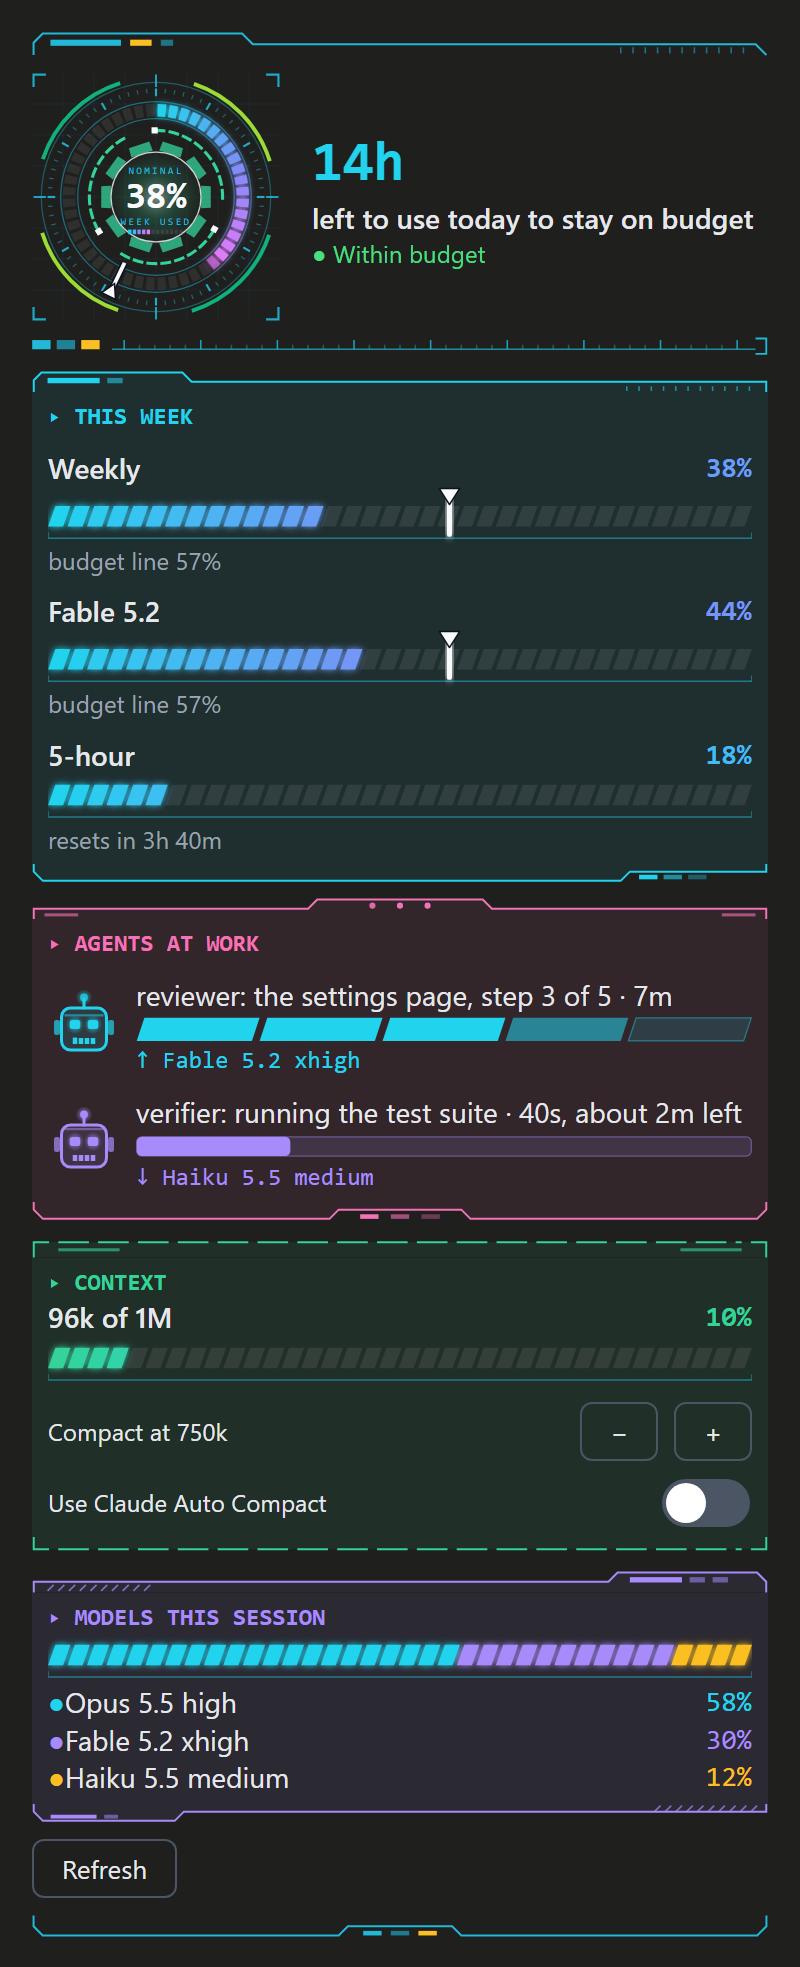
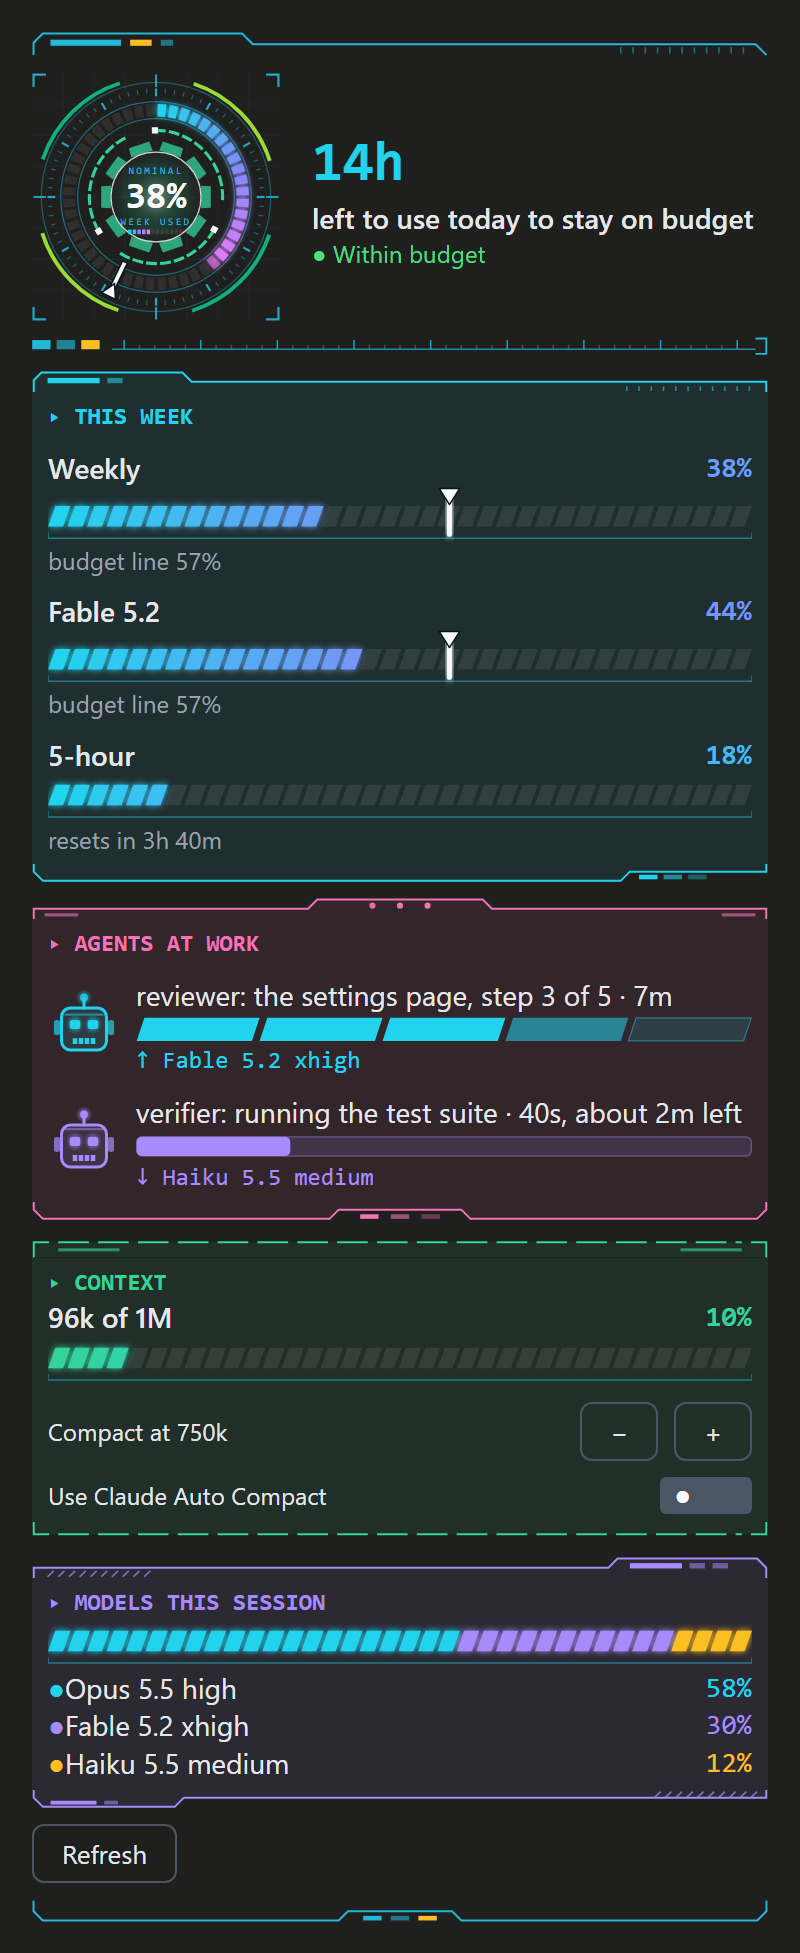
The auto-compact switch as a pill; context against the compact point; pacing 0.9.45
Live in 0.9.44 the switch drew wrong: the desktop draws a Button's label
over its children, so the label ran past the pane, and the Svg under
the Button stretched the row. The switch is now a Button with no label
holding a text track, blue with its knob right when on, grey with it
left when off.

The Context section's figure reads against the point the session
compacts at where a window was set, so "167k of 400k" sits under
"Compact at 400k" (pacing sets the window a buffer above the figure).

diff --git a/pacing/hooks/readings.test.ts b/pacing/hooks/readings.test.ts
@@ -1188,6 +1188,13 @@ const PANE = {
   props: { title: 'Pacing', isFocused: false, bodyColumns: 60, placement: 'dock', scroll: { offset: 0, bodyRows: 30 }, view: {} },
 } as const
 
+test('the context figure: against the point it compacts at where a window was set, the window else', () => {
+  expect(paneModel({ bd: BREAKDOWN }).context).toEqual({ used: '183k', of: '1M', pct: 18 })
+  const set = { ...BREAKDOWN, autocompactSource: 'settings', rawMaxTokens: 433000, maxTokens: 433000, autoCompactThreshold: 400000, totalTokens: 167000, percentage: 39 }
+  expect(paneModel({ bd: set }).context).toEqual({ used: '167k', of: '400k', pct: 42 })
+  expect(paneModel({ bd: { ...set, isAutoCompactEnabled: false } }).context).toEqual({ used: '167k', of: '433k', pct: 39 })
+})
+
 test('the pane: /pacing-pane opens it; it shows the budget, what to do and the context, with Refresh', async ($, on) => {
   engine(on)
   big(on)
@@ -1219,7 +1226,7 @@ test('the pane: /pacing-pane opens it; it shows the budget, what to do and the c
   for (const s of ['▸ CONTEXT', '183k of 1M', '18%']) expect(texts).toContain(s)
   // drawn, on a surface with Svg: the pane's two edges, the week's dial, the ruler under it, and for the week, the models and the context an edge above, one below and their bars, and the auto-compact switch
   const svgs = await ui.findAll({ type: 'Svg' })
-  expect(svgs.length).toBe(15)
+  expect(svgs.length).toBe(14)
   for (const s of svgs) { expect(s.props.source.startsWith('<svg xmlns="http://www.w3.org/2000/svg"')).toBe(true); expect(s.props.alt.length).toBeGreaterThan(0) }
   await ui.press({ key: 'pacing-pane-refresh' })
   await clock.advance(1)
@@ -1271,7 +1278,7 @@ test('a pane the engine does not place: /pacing-pane says why', async ($, on) =>
   expect((await $.command.run({ command: 'pacing-pane', args: '' } as any)).text).toBe('Pacing pane: not shown (no surface attached).')
   // the pane before any reading or turn
   const ui = await $.ui.mount(PANE)
-  expect((await ui.findAll({ type: 'Text' })).map((t: any) => t.text)).toEqual(['No reading yet in this session: /pacing usage takes one.', '▸ CONTEXT', 'Not measured yet; it shows after the next turn.', 'Compact at 750k', 'Use Claude Auto Compact', '      '])
+  expect((await ui.findAll({ type: 'Text' })).map((t: any) => t.text)).toEqual(['No reading yet in this session: /pacing usage takes one.', '▸ CONTEXT', 'Not measured yet; it shows after the next turn.', 'Compact at 750k', 'Use Claude Auto Compact', ' ●    '])
   await ui.unmount()
 })
 
@@ -4712,7 +4719,7 @@ test('Compact in the pane, as drawn: in the Context section with or without a br
   expect(paneModel({ bd }).compact).toBe('offer')
   // the measure where there is one (after a compaction it is the smaller)
   expect(paneModel({ bd, tokens: 40000 }).compact).toBe(null)
-  const keys = (m: any, surface: string) => nodes(paneView(TABLE, m, { surface })).filter(n => n.type === 'Button').map(n => n.props.key + ': ' + n.props.label)
+  const keys = (m: any, surface: string) => nodes(paneView(TABLE, m, { surface })).filter(n => n.type === 'Button').map(n => n.props.key + ': ' + (n.props.label ?? [n.props.children].flat().map((c: any) => (c && c.props ? c.props.children : c)).join('')))
   expect(keys(paneModel({ bd }), 'desktop')).toEqual(['pacing-pane-compact: Compact', 'pacing-pane-refresh: Refresh'])
   expect(keys(paneModel({ tokens: 300000 }), 'desktop')).toEqual(['pacing-pane-compact: Compact', 'pacing-pane-refresh: Refresh'])
   expect(keys(paneModel({ bd, compacting: true }), 'desktop')).toEqual(['pacing-pane-compact: Compacting…', 'pacing-pane-refresh: Refresh'])
@@ -5071,19 +5078,19 @@ test('the pane\'s auto-compact rows: the switch for Claude Code\'s own first, th
   // off the 50k grid: the next step on it
   expect(paneModel({ autoCompact: 120000 }).autoCompact).toEqual({ text: 'Compact at 120k', own: false, less: 100000, more: 150000 })
   const bd = { totalTokens: 100000, maxTokens: 1000000, percentage: 10, categories: [] }
-  const keys = (m: any, surface: string) => nodes(paneView(TABLE, m, { surface })).filter(n => n.type === 'Button').map(n => n.props.key + ': ' + n.props.label)
+  const keys = (m: any, surface: string) => nodes(paneView(TABLE, m, { surface })).filter(n => n.type === 'Button').map(n => n.props.key + ': ' + (n.props.label ?? [n.props.children].flat().map((c: any) => (c && c.props ? c.props.children : c)).join('')))
   // − and + first, the switch at the section's bottom (its row: the words left, the switch at the right end)
-  expect(keys(paneModel({ bd, autoCompact: 750000 }), 'desktop')).toEqual(['pacing-pane-autocompact-less: −', 'pacing-pane-autocompact-more: +', 'pacing-pane-autocompact-auto: Use Claude Auto Compact: off', 'pacing-pane-refresh: Refresh'])
+  expect(keys(paneModel({ bd, autoCompact: 750000 }), 'desktop')).toEqual(['pacing-pane-autocompact-less: −', 'pacing-pane-autocompact-more: +', 'pacing-pane-autocompact-auto:  ●    ', 'pacing-pane-refresh: Refresh'])
   // on: the switch alone, the value and − and + hidden
-  expect(keys(paneModel({ bd, autoCompact: 'auto' }), 'desktop')).toEqual(['pacing-pane-autocompact-auto: Use Claude Auto Compact: on', 'pacing-pane-refresh: Refresh'])
-  expect(keys(paneModel({ autoCompact: 1000000 }), 'desktop')).toEqual(['pacing-pane-autocompact-less: −', 'pacing-pane-autocompact-auto: Use Claude Auto Compact: off', 'pacing-pane-refresh: Refresh'])
-  // the switch: a picture of a pill, blue with the knob right when on, grey with it left when off, a plain Button laid over it
+  expect(keys(paneModel({ bd, autoCompact: 'auto' }), 'desktop')).toEqual(['pacing-pane-autocompact-auto:     ● ', 'pacing-pane-refresh: Refresh'])
+  expect(keys(paneModel({ autoCompact: 1000000 }), 'desktop')).toEqual(['pacing-pane-autocompact-less: −', 'pacing-pane-autocompact-auto:  ●    ', 'pacing-pane-refresh: Refresh'])
+  // the switch: a Button with no label (a desktop draws a label over its children), a track of text, blue with the knob right when on, grey with it left when off; no Svg and no box laid over it
   const knobOf = (m: any, surface: string) => nodes(paneView(TABLE, m, { surface })).find(n => n.props && n.props.key === 'pacing-pane-autocompact-auto')
-  const pic = (m: any) => { expect(knobOf(m, 'desktop').props.plain).toBe(true); const svg = nodes(paneView(TABLE, m, { surface: 'desktop' })).find(n => n.type === 'Svg' && String(n.props.alt).startsWith('Use Claude Auto Compact')); return [svg.props.alt, svg.props.source.includes(m.autoCompact.own ? '#3b82f6' : '#4b5563'), svg.props.source.includes(m.autoCompact.own ? 'cx="33"' : 'cx="13"')] }
-  expect(pic(paneModel({ bd, autoCompact: 750000 }))).toEqual(['Use Claude Auto Compact: off', true, true])
-  expect(pic(paneModel({ bd, autoCompact: 'auto' }))).toEqual(['Use Claude Auto Compact: on', true, true])
-  const over = nodes(paneView(TABLE, paneModel({ bd, autoCompact: 750000 }), { surface: 'desktop' })).find(n => n.type === 'Box' && n.props.position === 'absolute')
-  expect([over.props.width, over.props.height, nodes(over).some((n: any) => n.props && n.props.key === 'pacing-pane-autocompact-auto')]).toEqual([46, 26, true])
+  const track = (m: any) => { const b = knobOf(m, 'desktop'); const t = [b.props.children].flat()[0]; return [b.props.plain, b.props.label, t.props.backgroundColor, t.props.children] }
+  expect(track(paneModel({ bd, autoCompact: 750000 }))).toEqual([true, undefined, '#4b5563', ' ●    '])
+  expect(track(paneModel({ bd, autoCompact: 'auto' }))).toEqual([true, undefined, '#3b82f6', '    ● '])
+  expect(nodes(paneView(TABLE, paneModel({ bd, autoCompact: 750000 }), { surface: 'desktop' })).some(n => n.type === 'Box' && n.props.position === 'absolute')).toBe(false)
+  expect(nodes(paneView(TABLE, paneModel({ bd, autoCompact: 750000 }), { surface: 'desktop' })).some(n => n.type === 'Svg' && String(n.props.alt).startsWith('Use Claude Auto Compact'))).toBe(false)
   // the switch's row spans the section: the words left, the switch right; the limit's row the same, on a line of its own
   const rowOf = (m: any, key: string) => nodes(paneView(TABLE, m, { surface: 'desktop' })).find(n => n.type === 'Box' && n.props.justifyContent === 'space-between' && nodes(n).some((c: any) => c && c.props && c.props.key === key))
   const sw = rowOf(paneModel({ bd, autoCompact: 750000 }), 'pacing-pane-autocompact-auto')

diff --git a/docs/auto-readings.md b/docs/auto-readings.md
@@ -1639,3 +1639,17 @@ the breakdown's own "Autocompact buffer" row (`autoCompactBuffer`), else
 a little sooner. `autoCompactHas` compares the window with the figure
 plus the buffer. config.json, `/pacing autocompact` and the pane's − and +
 keep the figure itself; a refused run's toast names the command that ran.
+
+## The switch as text, the context against the compact point (0.9.45)
+
+Live in 0.9.44 the switch drew wrong: the desktop draws a Button's label
+over its children, so "Use Claude Auto Compact: off" ran past the pane,
+and the Svg laid under the Button stretched the row. The switch is now a
+Button with no label holding one Text, a track in blue (on) or grey (off)
+with its knob, and no Svg or absolute Box. Its caption wraps.
+
+The Context section's figure reads against the point the session
+compacts at where a window was set (`autocompactSource` 'settings':
+"167k of 400k" under "Compact at 400k"), since pacing now sets the window
+a buffer above the figure; with Claude Code's own window it reads
+against the window as before.
